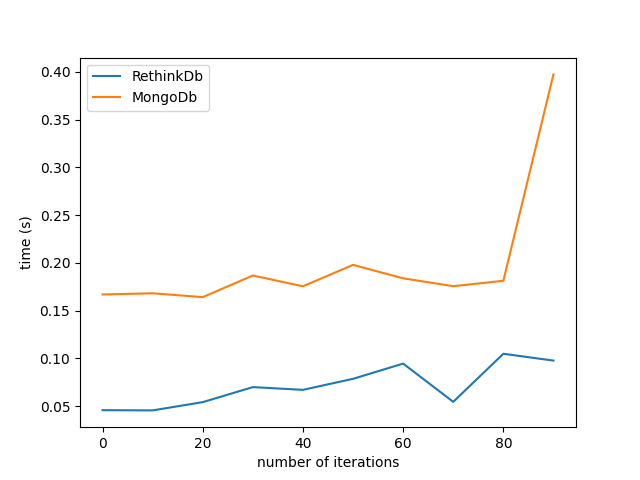
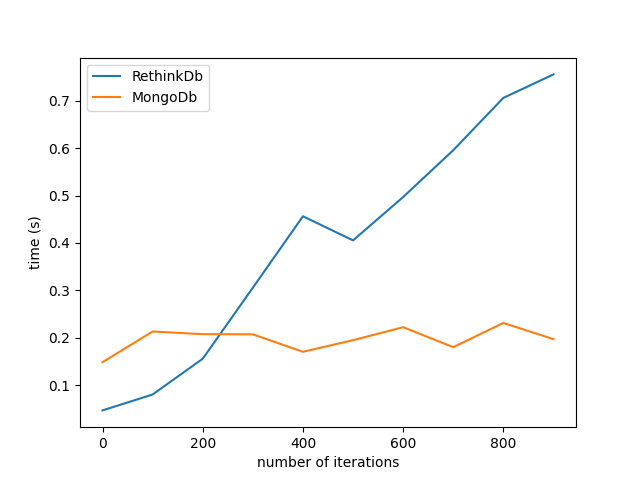
update results of few tests

diff --git a/efficiency-tests/main.py b/efficiency-tests/main.py
@@ -39,10 +39,22 @@ def get_average_time(data_series: list):
 
 if __name__ == '__main__':
 
-    iterations_num = 100
-    tests = [('copy_table', True)]
+    iterations_num = 1_000
+    tests = [('sorting', True)]
     # [('inserts', True), ('read_write', True), ('sorting', True), ('join_table', True),
     # ('search_row_by_id_10_times', True), ('search_row_by_value_10_times', True), ('copy_table', True)]
+
+    # sorting for iterations_num = 1_000
+    # MongoDb average operation time: 0.0001572537422180176
+    # RethinkDb average operation time: 0.0006701517105102539
+
+    # join for iterations_num = 1_000
+    # MongoDb average operation time: 0.00014704346656799317
+    # RethinkDb average operation time: 7.95125961303711e-05
+
+    # copy_table for iterations_num = 1_000
+    # MongoDb average operation time: 0.019695448875427245
+    # RethinkDb average operation time: 0.07064056396484375
 
     # search_row_by_id_10_times for iterations_num = 100
     # MongoDb average operation time: 9.33074951171875e-05
@@ -63,6 +75,7 @@ if __name__ == '__main__':
         series_names = []
         data_series = []
 
+        temp = []
         if hasattr(RethinkTest, test_func_name):
             print('RethinkDb')
             rethink_test = RethinkTest(test_name, recreate_collection)
@@ -70,6 +83,7 @@ if __name__ == '__main__':
 
             data_series.append(rethink_test.get_results(test_name))
             series_names.append('RethinkDb')
+            temp = get_average_time(rethink_test.get_results(test_name))
             print(f'RethinkDb average operation time: {get_average_time(rethink_test.get_results(test_name))}')
 
         if hasattr(MongoTest, test_func_name):
@@ -95,3 +109,4 @@ if __name__ == '__main__':
             series_names_li=series_names,
             test_case_name=test_name
         )
+        print(temp)
